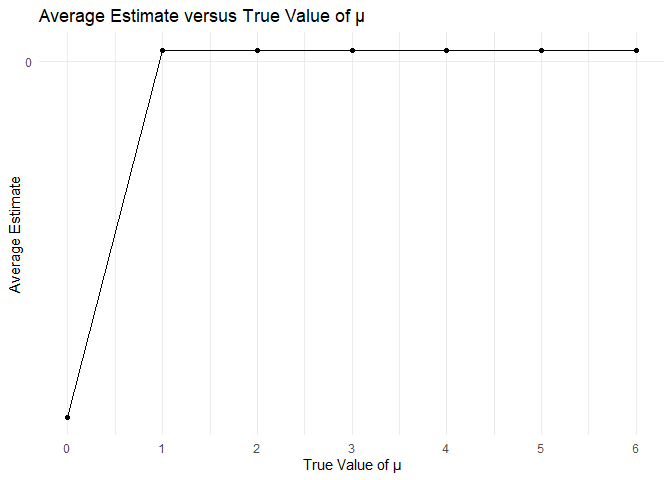
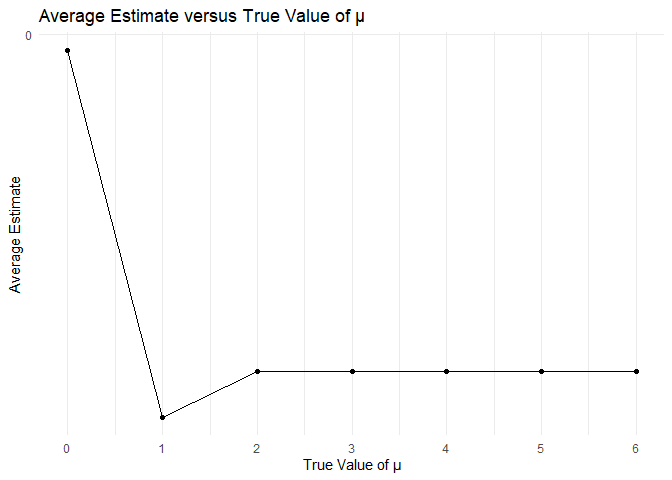
adding comments

diff --git a/p8105_hw5_yl5508.md b/p8105_hw5_yl5508.md
@@ -25,8 +25,7 @@ tot_hom =
   group_by(city_state) |>
   summarise(
     total_homocide = n(),
-    unsolved_homocide = sum(disposition  %in% c("Closed without arrest
-", "Open/No arrest")))
+    unsolved_homocide = sum(disposition  %in% c("Closed without arrest", "Open/No arrest")))
 ```
 
 ``` r
@@ -68,11 +67,11 @@ head(tot_propt_tidy, 5)
     ## # A tibble: 5 × 5
     ##   city_state      estimate conf.low conf.high CI                                
     ##   <chr>              <dbl>    <dbl>     <dbl> <chr>                             
-    ## 1 Albuquerque, NM    0.249    0.207     0.296 (0.206544173424625, 0.29601958549…
-    ## 2 Atlanta, GA        0.324    0.295     0.354 (0.294584103381076, 0.35430837487…
-    ## 3 Baltimore, MD      0.592    0.573     0.610 (0.573384885712592, 0.60995039741…
-    ## 4 Baton Rouge, LA    0.425    0.377     0.473 (0.377214266895452, 0.47323142604…
-    ## 5 Birmingham, AL     0.354    0.321     0.388 (0.32077965059004, 0.388144469939…
+    ## 1 Albuquerque, NM    0.386    0.337     0.438 (0.337260384254284, 0.43757660655…
+    ## 2 Atlanta, GA        0.383    0.353     0.415 (0.352811897036302, 0.41482188395…
+    ## 3 Baltimore, MD      0.646    0.628     0.663 (0.627562457662644, 0.66315986040…
+    ## 4 Baton Rouge, LA    0.462    0.414     0.511 (0.414198741860307, 0.51102396001…
+    ## 5 Birmingham, AL     0.434    0.399     0.469 (0.399188948632167, 0.46895574818…
 
 ``` r
 #or use the code below
@@ -180,6 +179,11 @@ obs_spa
 
 ![](p8105_hw5_yl5508_files/figure-gfm/spaghetti-1.png)<!-- -->
 
+From the plot, we notice following differences. In the control group,
+the observations exhibit a relatively stable trend, fluctuating within a
+certain range. However, in the experiment group, there is a notably
+significant upward trend, roughly increasing from 1 to 5.  
+
 ## Problem 3
 
 ``` r
@@ -198,8 +202,8 @@ t_test = function(sample, mu){
   res
 }
 
-x_sample = sample(50, 0)
-#code: "x_sample = map2(50, 0, \(x, y) sample(ntest = x, mu = y))" cannot work. Because it creates "list of 1" rather than "list of 50".
+x_sample = sample(5000, 0)
+#code: "x_sample = map2(5000, 0, \(x, y) sample(ntest = x, mu = y))" cannot work. Because it creates "list of 1" rather than "list of 5000".
 
 mu_0 = map2(x_sample, 0, \(x, y) t_test(sample = x, mu = y))
 #code: "mu_0 = t_test(x_sample, 0)" cannot work. (?)
@@ -208,26 +212,26 @@ mu_0_outcome =
   unnest(mu_0) |>
   rename(p_value = p.value) |>
   mutate(mu = 0) |>
-  mutate(iter = 1:50) |>
+  mutate(iter = 1:5000) |>
   select(mu, iter, everything())
 
 mu_0_outcome
 ```
 
-    ## # A tibble: 50 × 4
+    ## # A tibble: 5,000 × 4
     ##       mu  iter estimate p_value
     ##    <dbl> <int>    <dbl>   <dbl>
-    ##  1     0     1   0.0579  0.775 
-    ##  2     0     2   0.279   0.193 
-    ##  3     0     3  -0.238   0.166 
-    ##  4     0     4   0.160   0.351 
-    ##  5     0     5  -0.134   0.441 
-    ##  6     0     6   0.0775  0.710 
-    ##  7     0     7  -0.150   0.353 
-    ##  8     0     8  -0.179   0.385 
-    ##  9     0     9   0.242   0.204 
-    ## 10     0    10  -0.381   0.0379
-    ## # ℹ 40 more rows
+    ##  1     0     1  -0.160    0.471
+    ##  2     0     2  -0.0103   0.954
+    ##  3     0     3  -0.0239   0.874
+    ##  4     0     4  -0.0233   0.885
+    ##  5     0     5  -0.257    0.160
+    ##  6     0     6  -0.233    0.139
+    ##  7     0     7   0.191    0.354
+    ##  8     0     8  -0.0652   0.716
+    ##  9     0     9   0.0507   0.806
+    ## 10     0    10   0.169    0.380
+    ## # ℹ 4,990 more rows
 
 ``` r
 mu_1to6 = tibble()
@@ -238,7 +242,7 @@ for (i in 1:6) {
     unnest(res) |>
     rename(p_value = p.value) |>
     mutate(mu = i) |>
-    mutate(iter = 1:50) |>
+    mutate(iter = 1:5000) |>
     select(mu, iter, everything())
   mu_1to6 = bind_rows(mu_1to6, result)
 }
@@ -248,20 +252,20 @@ mu_0to6 = bind_rows(mu_0_outcome, mu_1to6)
 mu_0to6
 ```
 
-    ## # A tibble: 350 × 4
+    ## # A tibble: 35,000 × 4
     ##       mu  iter estimate p_value
     ##    <dbl> <int>    <dbl>   <dbl>
-    ##  1     0     1   0.0579  0.775 
-    ##  2     0     2   0.279   0.193 
-    ##  3     0     3  -0.238   0.166 
-    ##  4     0     4   0.160   0.351 
-    ##  5     0     5  -0.134   0.441 
-    ##  6     0     6   0.0775  0.710 
-    ##  7     0     7  -0.150   0.353 
-    ##  8     0     8  -0.179   0.385 
-    ##  9     0     9   0.242   0.204 
-    ## 10     0    10  -0.381   0.0379
-    ## # ℹ 340 more rows
+    ##  1     0     1  -0.160    0.471
+    ##  2     0     2  -0.0103   0.954
+    ##  3     0     3  -0.0239   0.874
+    ##  4     0     4  -0.0233   0.885
+    ##  5     0     5  -0.257    0.160
+    ##  6     0     6  -0.233    0.139
+    ##  7     0     7   0.191    0.354
+    ##  8     0     8  -0.0652   0.716
+    ##  9     0     9   0.0507   0.806
+    ## 10     0    10   0.169    0.380
+    ## # ℹ 34,990 more rows
 
 ``` r
 power_plot =
@@ -279,6 +283,11 @@ power_plot
 ```
 
 ![](p8105_hw5_yl5508_files/figure-gfm/power_plot-1.png)<!-- -->
+
+From the graph, it’s evident that as the true mean (μ) increases, the
+power of the experiment also increases, following a sigmoid growth
+pattern. Additionally, once the true mean surpasses 4, the power
+essentially reaches 1.  
 
 ``` r
 est_plot =
@@ -298,6 +307,10 @@ est_plot
 
 ![](p8105_hw5_yl5508_files/figure-gfm/estimate_plot-1.png)<!-- -->
 
+In a repeated experiment with 5000 trials, we can consider the estimate
+to be nearly equal to the true mean. The curve in the graph closely
+aligning with y=x further confirms this point.  
+
 ``` r
 est_rej_plot =
   mu_0to6 |>
@@ -316,3 +329,10 @@ est_rej_plot
 ```
 
 ![](p8105_hw5_yl5508_files/figure-gfm/estimate_reject_plot-1.png)<!-- -->
+
+Through a comprehensive analysis of multiple graphs, we’ve observed that
+when the power is low, there’s a significant disparity between the
+estimate under rejecting the null hypothesis and the true mean.
+Moreover, as the power decreases, this gap becomes more apparent.
+However, as the power approaches 1 (true mean exceeding 4), the values
+of both the estimate and the true mean essentially converge.  
